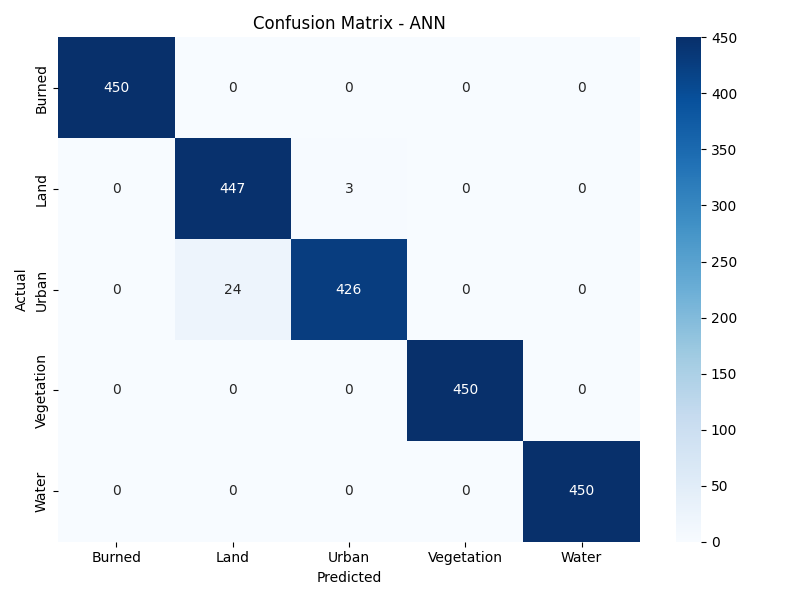
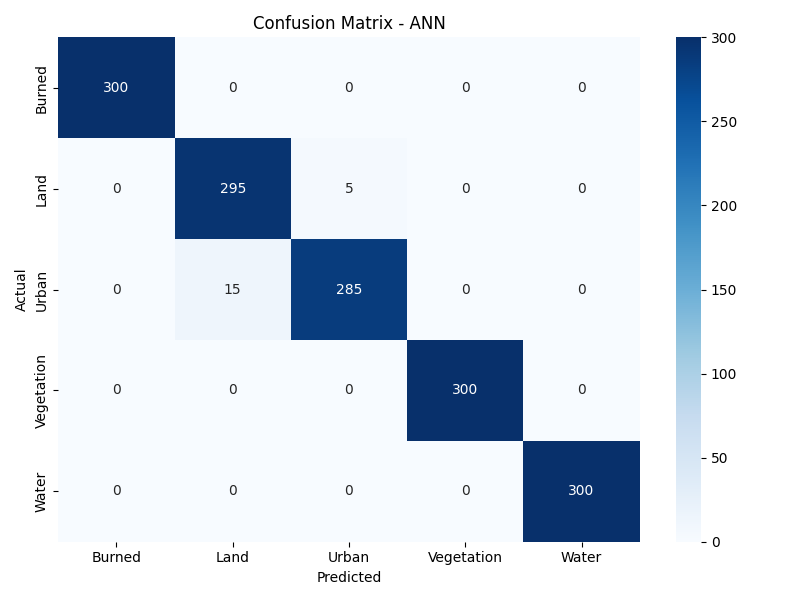
Removing preprocessing.py

diff --git a/src/train_models.py b/src/train_models.py
@@ -95,7 +95,7 @@ X_scaled = scaler.fit_transform(X)
 X_train, X_test, y_train, y_test = train_test_split(
     X_scaled,
     y,
-    test_size=0.3,
+    test_size=0.2,
     random_state=42,
     stratify=y,
 )
